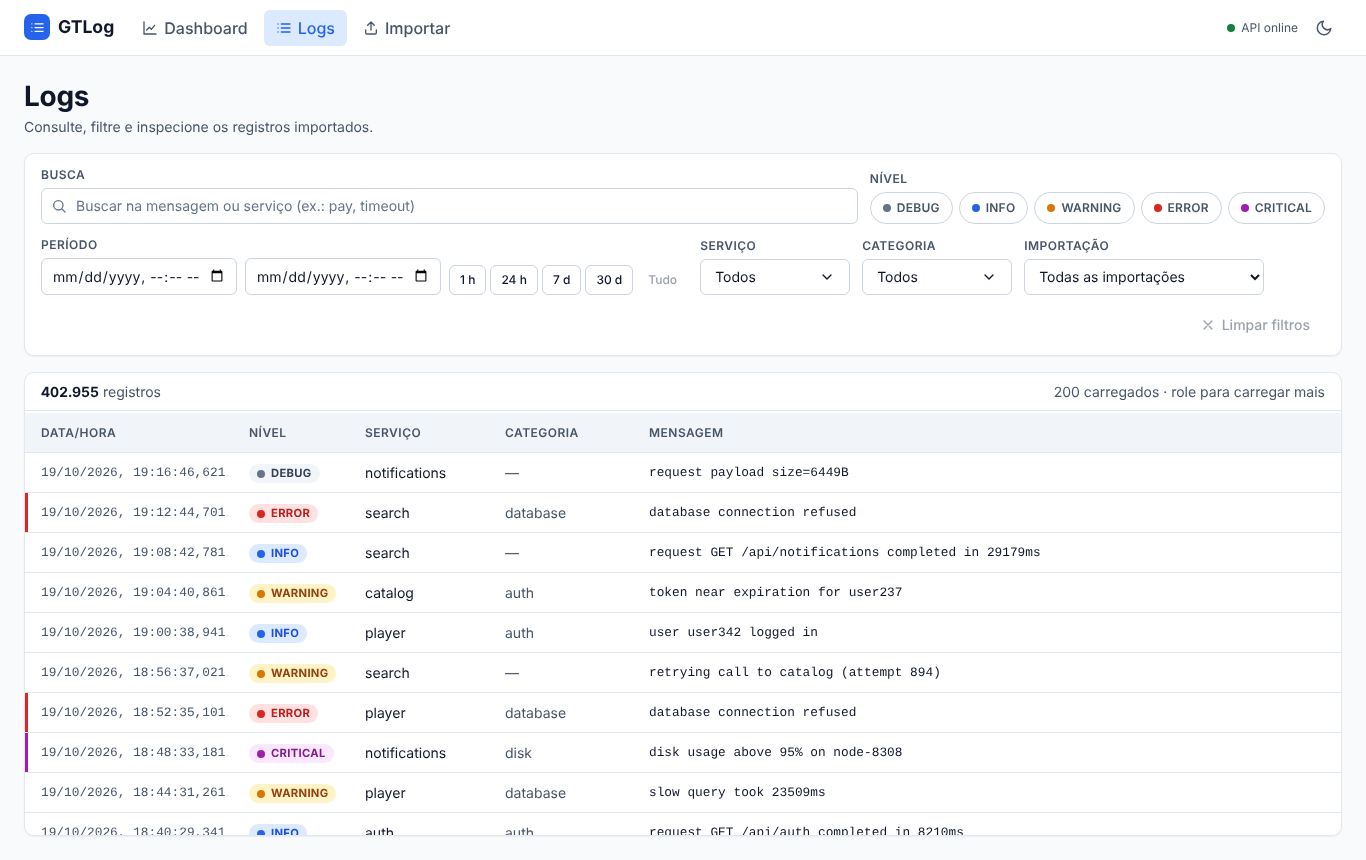
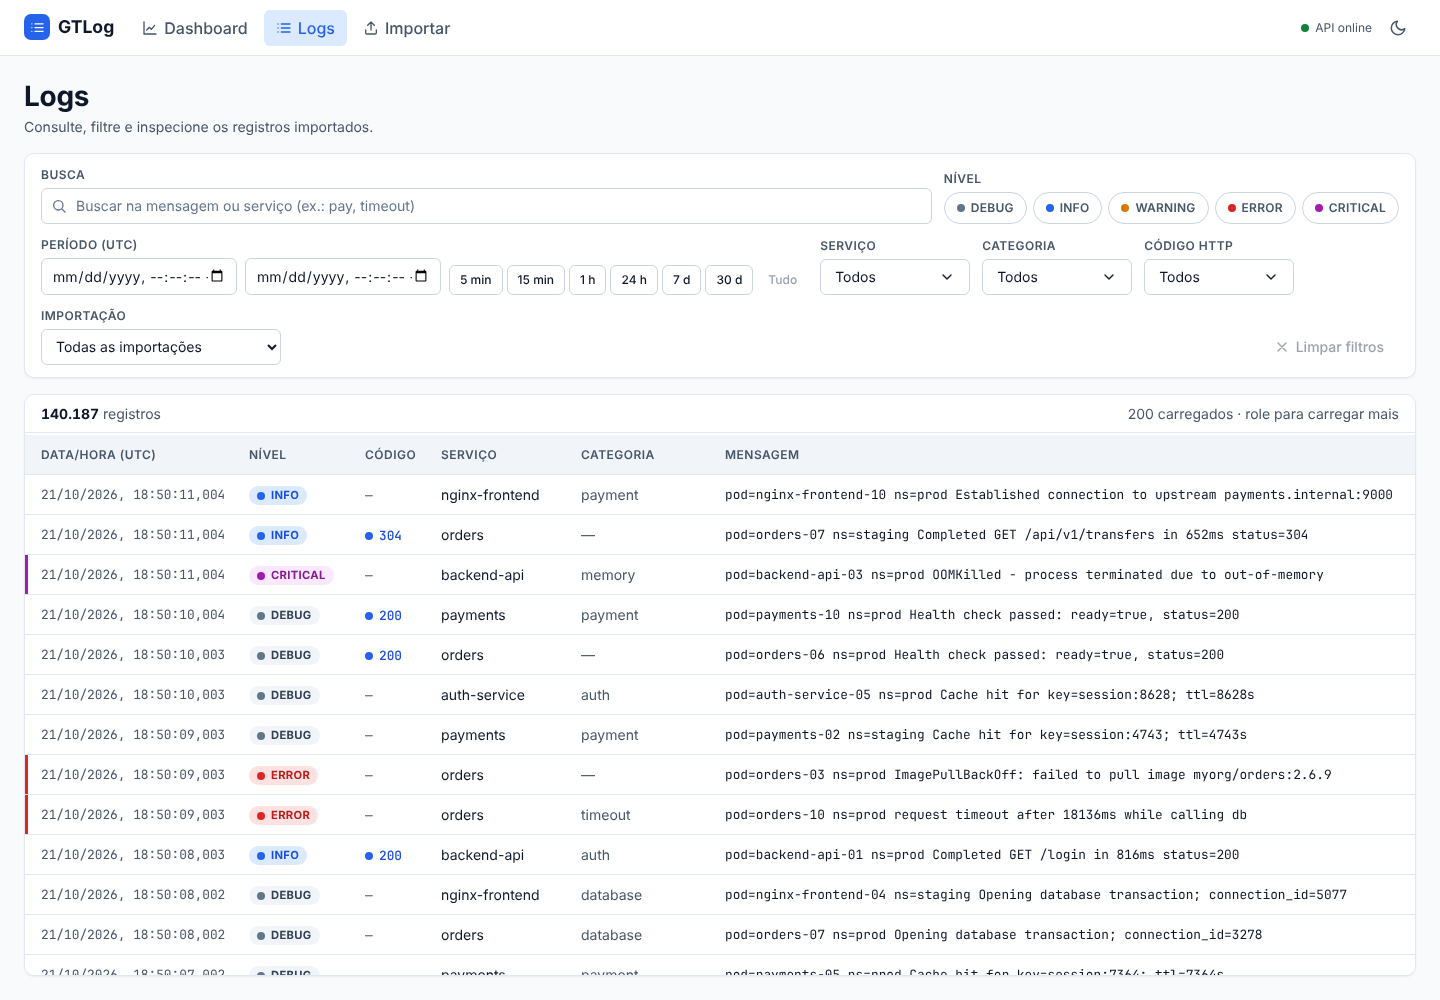
Refresh README screenshots and document the solution architecture
New screenshots of the dashboard (volume by second, hourly view), the live
file watch with the critical alert and the file picker. README gains an
architecture overview and rows for live watching and alerts; architecture.md
gains an overview diagram, the current stats buckets, and the critical alerts.

Claude-Session: https://claude.ai/code/session_019V6Pk4EuUxFFdqhQv93gUu

diff --git a/docs/architecture.md b/docs/architecture.md
@@ -1,19 +1,69 @@
 # Arquitetura
 
+## Visão geral
+
+O GTLog tem três serviços no Docker Compose: o frontend (`web`), a API (`api`) e o banco (`db`). O navegador só
+fala com a API, por HTTP/JSON; a API é a única que acessa o banco. Os logs chegam por dois caminhos, e os dois
+terminam no mesmo parser e no mesmo `COPY`:
+
+- **Upload**: o usuário envia um arquivo pela tela Importar (ou `POST /imports`) e ele é processado em segundo plano.
+- **Observação em tempo real**: uma thread da API relê, no intervalo escolhido, arquivos de uma pasta do host
+  montada só para leitura em `/watch`, e importa só as linhas novas.
+
+```mermaid
+flowchart LR
+    subgraph Navegador
+        UI["React SPA<br/>Dashboard · Logs · Importar"]
+        N[Notificações do navegador<br/>alertas de CRITICAL]
+    end
+    subgraph DC["Docker Compose"]
+        WEB["web<br/>Nginx :5173"]
+        subgraph API["api · FastAPI :8000"]
+            R["Rotas<br/>imports · logs · stats · watches · health"]
+            BG[Importação em segundo plano<br/>BackgroundTasks]
+            WS["WatchScheduler<br/>thread, verifica a cada 1 s"]
+            P["Parsers<br/>texto · JSON · HTTP · syslog · CSV"]
+        end
+        DB[("db · PostgreSQL 16<br/>import_jobs · log_entries · log_watches")]
+    end
+    HOST["Pasta do host<br/>GTLOG_WATCH_DIR, só leitura em /watch"]
+
+    WEB -->|HTML, JS, CSS| UI
+    UI -->|HTTP/JSON| R
+    UI --> N
+    R -->|upload| BG
+    BG --> P
+    WS -->|lê só o que cresceu| HOST
+    WS --> P
+    P -->|COPY em lotes| DB
+    R -->|consultas com cursor<br/>e agregações| DB
+```
+
+Princípios que guiam o desenho (detalhes e alternativas em [decisions.md](decisions.md)):
+
+- **Um banco só, sem filas nem buscador externo.** O PostgreSQL faz armazenamento, full-text (`tsvector` + GIN) e
+  agregações (`date_bin`). Menos peças para subir e para manter consistentes.
+- **Ingestão em lotes com `COPY`**, no mesmo caminho para upload e observação, com progresso e contadores gravados
+  na mesma transação de cada lote.
+- **Consulta por cursor (keyset)**, nunca `OFFSET`, para que a página 1.000 custe o mesmo que a primeira.
+- **Os mesmos filtros em tudo**: tabela, contagem, facetas e dashboard usam o mesmo construtor de condições.
+- **Frontend como SPA estática** com o estado do servidor no TanStack Query e os filtros na URL.
+
 ## Componentes
 
 | Componente | Tecnologia | Responsabilidade |
 | --- | --- | --- |
 | `web` | React 18 + TypeScript + Vite, servido por Nginx (porta 5173 → 80) | Telas de Dashboard, Logs e Importar. SPA estática; o Nginx só serve arquivos e faz fallback para `index.html`. |
-| `api` | FastAPI + SQLAlchemy 2 + psycopg 3 (porta 8000) | Upload, processamento em segundo plano, consulta, facetas e estatísticas. |
+| `api` | FastAPI + SQLAlchemy 2 + psycopg 3 (porta 8000) | Upload, processamento em segundo plano, observação de arquivos em tempo real, consulta, facetas e estatísticas. |
 | `db` | PostgreSQL 16 | Armazenamento, índices, full-text e agregações. |
 
 O backend é dividido em camadas, cada uma chamando só a de baixo:
 
 - `app/api`: rotas, validação de parâmetros e schemas de resposta (Pydantic). Não contém regra de negócio.
-- `app/services`: `importer` (upload e ingestão), `log_query` (filtros, cursor, facetas) e `stats` (agregações).
+- `app/services`: `importer` (upload e ingestão), `log_query` (filtros, cursor, facetas), `stats` (agregações) e
+  `watcher` (agendador e leitura incremental dos arquivos observados).
 - `app/parsers`: funções puras que transformam uma linha de texto em `ParsedLine` e não acessam o banco.
-- `app/models`: tabelas `import_jobs` e `log_entries` e seus índices.
+- `app/models`: tabelas `import_jobs`, `log_entries` e `log_watches` e seus índices.
 
 O contrato entre parsers e importador é `ParsedLine` (`app/parsers/base.py`). O contrato entre backend e frontend é
 [docs/api.md](api.md).
@@ -29,7 +79,7 @@ flowchart LR
     R -.->|BackgroundTasks| BG[importer.process_import]
     TMP --> BG
     BG -->|200 primeiras linhas| DET[detect_parser]
-    DET --> P[parser: text / json / http / syslog]
+    DET --> P[parser: text / json / http / syslog / csv]
     P -->|ParsedLine + categoria| BG
     BG -->|COPY em lotes de 5.000<br/>+ contadores do job, 1 commit por lote| DB[(PostgreSQL<br/>log_entries / import_jobs)]
     UP -->|GET /imports/id a cada 1 s| R
@@ -100,9 +150,29 @@ observações ativas com `next_check_at` vencido e chama `poll_watch` para cada 
    gravado e a próxima leitura repete o trecho, sem duplicar linhas.
 
 Se sobrou conteúdo (mais de 16 MB de atraso), a observação fica vencida de novo e é lida no próximo segundo; senão
-volta depois de `interval_seconds`. O frontend consulta `GET /watches` a cada 3 s enquanto houver observação ativa
-e, quando os contadores sobem, atualiza contagem, dashboard e facetas. A tabela de logs só é recarregada se o usuário
+volta depois de `interval_seconds`. O frontend (`useWatchActivity`, montado em `App`) consulta `GET /watches` a cada 3 s
+enquanto houver observação ativa e, quando os contadores sobem, atualiza contagem, dashboard e facetas. A tabela de logs só é recarregada se o usuário
 estiver na primeira página, para não tirar a rolagem de quem está lendo registros mais antigos.
+
+O arquivo é escolhido pelo seletor da tela Importar, que navega a pasta compartilhada por `GET /watches/files` (o
+seletor nativo do navegador não revela o caminho do arquivo, e a API precisa dele para reler). Também é aceito o
+caminho completo do host quando a pasta veio de `GTLOG_WATCH_DIR`: a API troca o prefixo `WATCH_HOST_ROOT` por
+`WATCH_ROOT` antes de validar.
+
+### Alertas de erros críticos
+
+A cada leitura, `poll_watch` soma em `critical_lines` as linhas `CRITICAL` gravadas e guarda a última mensagem e o
+horário. Não há Web Push nem servidor de notificações: o próprio frontend compara `critical_lines` entre duas
+consultas a `GET /watches` (`useCriticalAlerts`) e, quando o número cresce, mostra três avisos ao mesmo tempo:
+
+1. uma notificação do navegador (API `Notification`), com permissão pedida pelo botão **Ativar alertas**;
+2. um alerta no canto da página, para quando o sistema esconde a notificação (Foco, permissões do macOS);
+3. a contagem no título da aba (`(2) GTLog`) enquanto ela estiver em segundo plano.
+
+Com os alertas ativos, a consulta continua mesmo com a aba oculta. A primeira contagem de cada observação só vira
+referência depois que ela alcança o fim do arquivo, para não anunciar como novos os `CRITICAL` que o arquivo já tinha
+ao ser observado ou ao recarregar a página. Clicar no alerta abre `/logs` filtrado pela importação da observação e
+pelo nível `CRITICAL`.
 
 ## Paginação por cursor
 
@@ -143,10 +213,14 @@ tsquery. Além disso, o texto sempre vai como parâmetro ligado (bind), nunca co
 
 ## Estatísticas
 
-`/stats` faz uma única varredura agrupada por `date_bin('1 hour', timestamp)` e nível, que gera ao mesmo tempo os
-totais por nível, a série temporal e o primeiro e último timestamp. Quando o modo automático escolhe `day`
-(intervalo acima de 3 dias), as horas são somadas em dias na aplicação, sem uma segunda consulta. Buckets vazios
-são preenchidos com zero (até 10.000 buckets). Top serviços, top categorias e erros mais frequentes são consultas
+`/stats` faz uma única varredura agrupada por `date_bin(<bucket>, timestamp)` e nível, que gera ao mesmo tempo os
+totais por nível, a série temporal e o primeiro e último timestamp. O bucket (segundo, minuto, hora ou dia) é
+escolhido pelo tamanho do período: o filtrado ou, sem `start`/`end`, o dos dados (um `min`/`max` que sai do índice de
+timestamp). Vale o mais fino que cabe: `second` até 5 minutos, `minute` até 3 horas, `hour` até 3 dias, senão
+`day`. Um bucket pedido explicitamente que daria 10.000 pontos ou mais é trocado pelo próximo maior, e a resposta
+informa qual foi usado. O `date_bin` usa origem em 2000-01-01 UTC, então as fronteiras são sempre em UTC e iguais às
+que a aplicação usa para preencher buckets vazios com zero. Com `start`/`end`, o preenchimento cobre o período
+inteiro (um dia por hora sempre devolve 24 pontos), o que alimenta o painel "Volume por hora em um dia". Top serviços, top categorias e erros mais frequentes são consultas
 `GROUP BY ... LIMIT 10`. Nos erros, os números da mensagem são trocados por `#` (`regexp_replace`), para juntar
 variações como `timeout calling auth after #ms`.
 
@@ -164,6 +238,10 @@ variações como `timeout calling auth after #ms`.
 - **Virtualização**: `@tanstack/react-virtual` renderiza só as linhas visíveis, mesmo com milhares carregadas. Perto
   do fim da lista, a próxima página é buscada (scroll infinito). Abaixo do breakpoint compacto, as linhas viram
   cartões e a tabela continua virtualizada.
+- **Dashboard**: o gráfico "Volume ao longo do tempo" usa o bucket que a API devolver. Arrastar sobre ele seleciona
+  um trecho e vira um filtro de período (`start`/`end` na URL), então a API responde com um bucket mais fino, até
+  segundos; **Ver todo o período** desfaz o zoom. O painel "Volume por hora em um dia" pede um dia escolhido no
+  calendário com `bucket=hour` e mostra as 24 horas. Os horários dos gráficos e da tabela são exibidos em UTC.
 - **Code splitting**: as três páginas são `lazy`. O Recharts fica só no chunk do dashboard, então a tela de logs
   não o baixa.
 - **Estilo**: CSS próprio com variáveis (`frontend/src/index.css`), com tema claro/escuro via `data-theme`.

diff --git a/README.md b/README.md
@@ -10,11 +10,15 @@ categorias e erros mais frequentes. Backend em FastAPI + PostgreSQL 16, frontend
 
 | Dashboard | Logs |
 | --- | --- |
-| ![Dashboard com indicadores, volume por nível e filtros](docs/screenshots/dashboard.png) | ![Tabela de logs com filtros, busca e contagem](docs/screenshots/logs.png) |
+| ![Dashboard com indicadores, volume ao longo do tempo, volume por hora em um dia, níveis, serviços, categorias e erros frequentes](docs/screenshots/dashboard.png) | ![Tabela de logs com filtros, busca, código HTTP e contagem](docs/screenshots/logs.png) |
 
-| Importação | Celular, tema escuro |
+| Importação e observação em tempo real | Seletor do arquivo observado |
 | --- | --- |
-| ![Tela de importação com importação concluída e contadores](docs/screenshots/importar.png) | ![Logs no celular](docs/screenshots/mobile-logs-escuro.png) ![Dashboard no celular](docs/screenshots/mobile-dashboard-escuro.png) |
+| ![Tela Importar com um arquivo observado, alertas ativos e um alerta de erros críticos no canto](docs/screenshots/importar.png) | ![Painel para escolher o arquivo dentro da pasta compartilhada com a API](docs/screenshots/observar-selecionar-arquivo.png) |
+
+| Zoom no volume, agrupado por segundo | Celular, tema escuro |
+| --- | --- |
+| ![Gráfico de volume dos últimos 2 minutos de um arquivo observado, um ponto por segundo](docs/screenshots/dashboard-segundos.png) | ![Logs no celular](docs/screenshots/mobile-logs-escuro.png) ![Dashboard no celular](docs/screenshots/mobile-dashboard-escuro.png) |
 
 ## Funcionalidades
 
@@ -29,9 +33,31 @@ categorias e erros mais frequentes. Backend em FastAPI + PostgreSQL 16, frontend
 | Scroll infinito | Paginação por cursor (keyset), 200 registros por página, com virtualização: só as linhas visíveis ficam no DOM. |
 | Dashboard | Total, erros + críticos, taxa de erro e período coberto; distribuição por nível; top serviços (com erros em destaque) e categorias; erros mais frequentes agrupados. |
 | Tendências | Série temporal por nível, agrupada por segundo (até 5 min), minuto (até 3 h), hora (até 3 dias) ou dia; arraste sobre o gráfico para aproximar um trecho. Um segundo gráfico mostra um dia escolhido no calendário, hora a hora. Clicar em um ponto, nível, serviço ou erro abre a tabela já filtrada. |
+| Logs em tempo real (extra) | Observação de um arquivo que cresce, como um `tail -f`, com intervalo de 1 s a 24 h, detecção de rotação e truncamento, pausa e retomada. Logs, contagem e dashboard se atualizam sozinhos. [Detalhes abaixo](#observar-um-arquivo-de-log-em-tempo-real). |
+| Alertas de erros críticos (extra) | Notificação do navegador, alerta na página e contagem no título da aba quando um arquivo observado recebe linhas `CRITICAL`. |
 
 Também: tema claro/escuro, indicador de status da API, estados de carregando/vazio/erro com "tentar novamente" e
 mensagens de erro em português.
+
+## Arquitetura
+
+```mermaid
+flowchart LR
+    B[Navegador<br/>React SPA] -->|HTTP/JSON| API[api<br/>FastAPI]
+    W[web<br/>Nginx] -->|arquivos estáticos| B
+    API -->|COPY em lotes,<br/>consultas por cursor| DB[(db<br/>PostgreSQL 16)]
+    API -->|lê só as linhas novas| H["pasta do host<br/>montada em /watch"]
+```
+
+Três serviços no Docker Compose. O navegador baixa a SPA do Nginx (`web`) e conversa só com a API (`api`), que é a
+única a acessar o banco (`db`). Na API, as rotas chamam serviços (`importer`, `log_query`, `stats`, `watcher`), que
+usam os parsers e os modelos. Os logs entram por upload (processado em segundo plano) ou pela observação de arquivos
+(uma thread que relê os arquivos no intervalo escolhido); os dois caminhos usam os mesmos parsers e a mesma gravação
+com `COPY`. O PostgreSQL faz também a busca textual e as agregações do dashboard, sem serviços extras.
+
+O desenho completo, com fluxo de dados, modelo e índices, paginação, busca, estatísticas, observação em tempo real
+e alertas, está em [docs/architecture.md](docs/architecture.md); as decisões e alternativas, em
+[docs/decisions.md](docs/decisions.md).
 
 ## Como rodar (Docker)
 
@@ -162,7 +188,8 @@ Para testar com um log que cresce sozinho, o gerador acrescenta linhas continuam
 python3 scripts/generate_logs.py --lines 1000 --follow 5 --out samples/live.log   # 5 linhas/s até Ctrl+C
 ```
 
-Depois observe `live.log` com intervalo de 5 segundos e abra **Logs**.
+Depois observe `live.log` com intervalo de 5 segundos e abra **Logs**. No **Dashboard**, filtre pela importação da
+observação e use o atalho **5 min** (ou arraste sobre o gráfico) para ver o volume chegando segundo a segundo.
 
 **Alertas de erros críticos.** Com pelo menos uma observação na lista, clique em **Ativar alertas** e aceite a
 permissão do navegador. A partir daí, quando uma leitura trouxer linhas `CRITICAL`, o navegador mostra uma
@@ -314,24 +341,24 @@ termina com status `FAILED` ("Formato de log não reconhecido.").
 ```text
 backend/
   app/
-    api/        rotas FastAPI e schemas (imports, logs, stats, health)
-    services/   importação (COPY), consultas com cursor, estatísticas
-    models/     ImportJob e LogEntry (SQLAlchemy) e índices
+    api/        rotas FastAPI e schemas (imports, logs, stats, watches, health)
+    services/   importação (COPY), consultas com cursor, estatísticas, observação de arquivos
+    models/     ImportJob, LogEntry e LogWatch (SQLAlchemy) e índices
     parsers/    detecção de formato, parsers, níveis e categorias
     core/       configuração e conexão com o banco
   tests/        pytest (API e parsers, com fixtures por formato)
 frontend/src/
   pages/        Dashboard, Logs, Importar
-  components/   dashboard, filtros, tabela de logs, importação, UI base
+  components/   dashboard, filtros, tabela de logs, importação e observação, alertas, UI base
   api/          cliente HTTP e hooks do TanStack Query
-  hooks/ lib/   filtros na URL, tema, formatação
-scripts/        generate_logs.py
+  hooks/ lib/   filtros na URL, tema, formatação, alertas de CRITICAL
+scripts/        generate_logs.py (logs de exemplo) e smoke_test.py (integração)
 docs/           arquitetura, decisões, API, uso de IA, screenshots
 ```
 
 ## Documentação
 
-- [docs/architecture.md](docs/architecture.md): componentes, fluxo de dados, modelo e índices, busca, frontend e tratamento de erros
+- [docs/architecture.md](docs/architecture.md): visão geral, componentes, fluxo de dados, modelo e índices, busca, estatísticas, observação em tempo real e alertas, frontend e tratamento de erros
 - [docs/decisions.md](docs/decisions.md): decisões técnicas, alternativas consideradas e limitações conhecidas
 - [docs/api.md](docs/api.md): contrato da API (rotas, parâmetros, respostas e erros)
 - [docs/ai-usage.md](docs/ai-usage.md): como a IA foi usada no desenvolvimento e o que foi revisado
